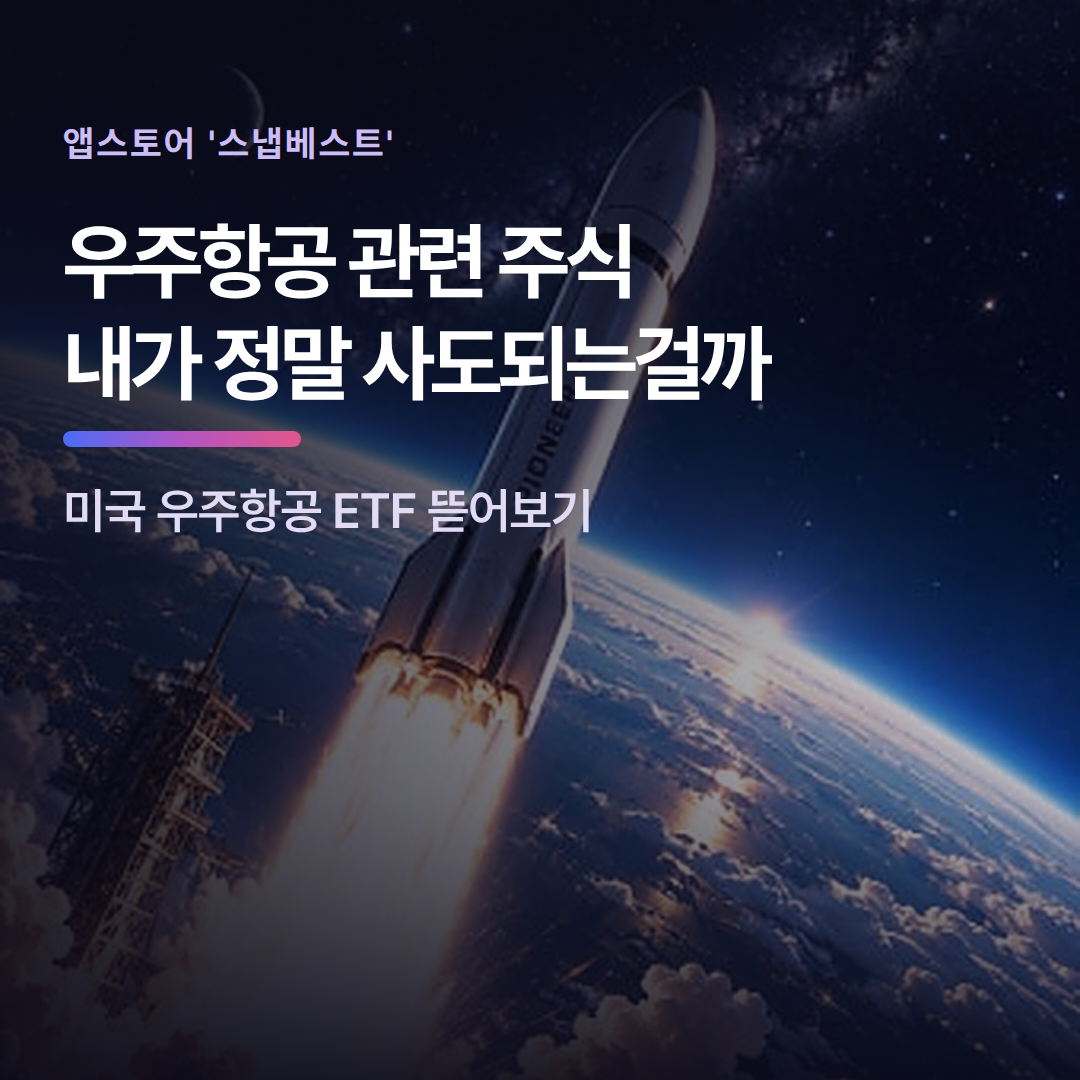
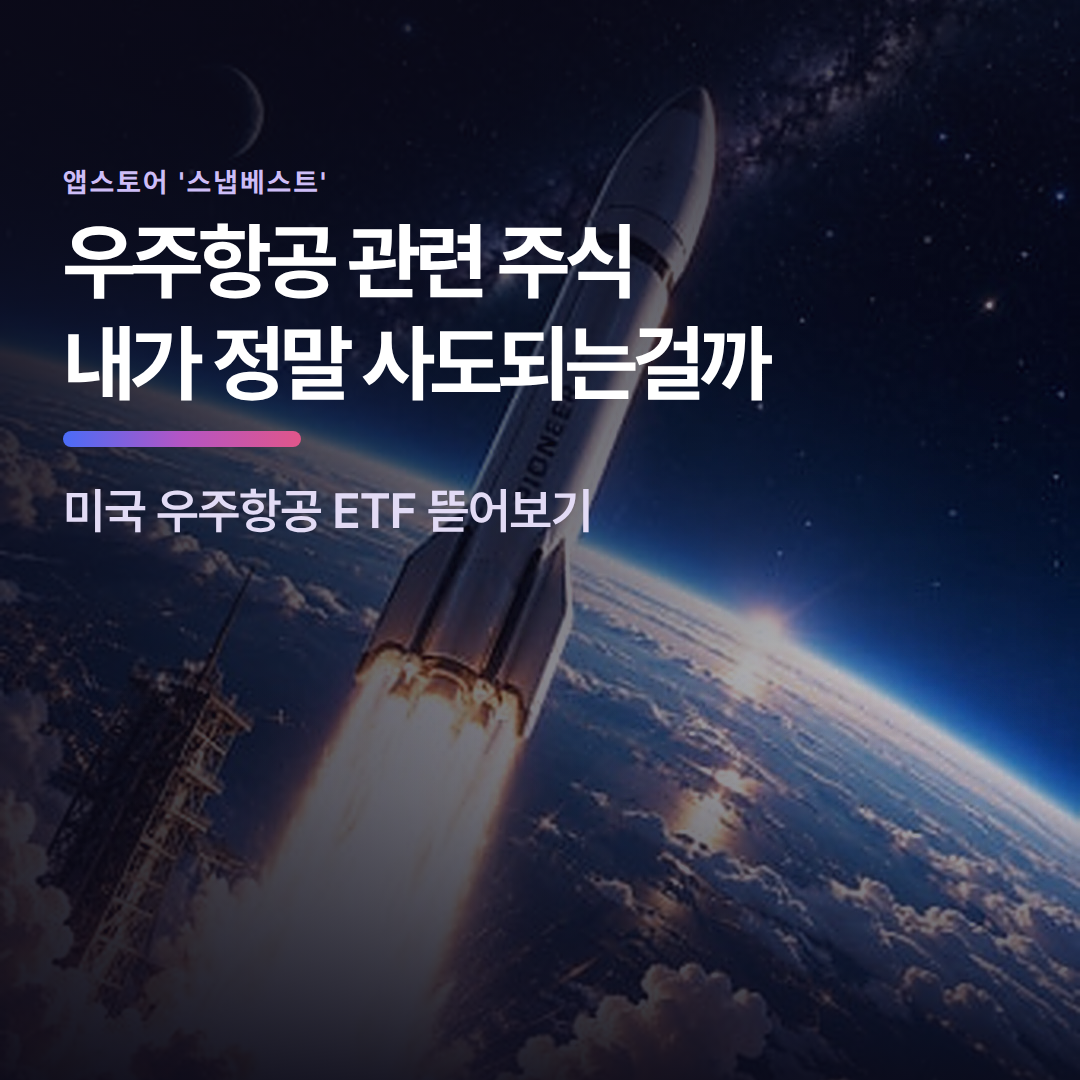
cardnews(thumb): photo 꼬리표를 작게 · 제목에 붙임
0.034h -> 0.026h, 제목과의 간격 0.125h -> 0.092h.
제목을 키우면서 같이 올렸던 걸 되돌린다. 꼬리표는 제목에 딸린
라벨이라 붙어 있어야 한 덩어리로 읽힌다.

Claude-Session: https://claude.ai/code/session_01RMiKh4knUhoRQtbEt8tjeA

Changed region(s): [[0.0611, 0.1222, 0.3667, 0.1833]]

diff --git a/cardnews/thumb.py b/cardnews/thumb.py
@@ -218,7 +218,7 @@ def lay_photo(c, w, h):
           '<stop offset="0.55" stop-color="#0B0A18" stop-opacity="0.45"/>'
           '<stop offset="1" stop-color="#0B0A18" stop-opacity="0.88"/></linearGradient></defs>\n'
           f'  <rect x="0" y="{h*0.62:.0f}" width="{w}" height="{h*0.38:.0f}" fill="url(#scB)"/>\n')
-    s += (f'  <text x="{x:.0f}" y="{top - int(h*0.125)}" font-size="{int(h*0.034)}" font-weight="700" '
+    s += (f'  <text x="{x:.0f}" y="{top - int(h*0.092)}" font-size="{int(h*0.026)}" font-weight="700" '
           f'letter-spacing="2.5" fill="#CDBDF7">{esc(c.get("tag","SNAPVEST"))}</text>\n')
     for i, t in enumerate(ls):
         s += (f'  <text x="{x:.0f}" y="{top + i*gap}" font-size="{fs}" font-weight="700" '
